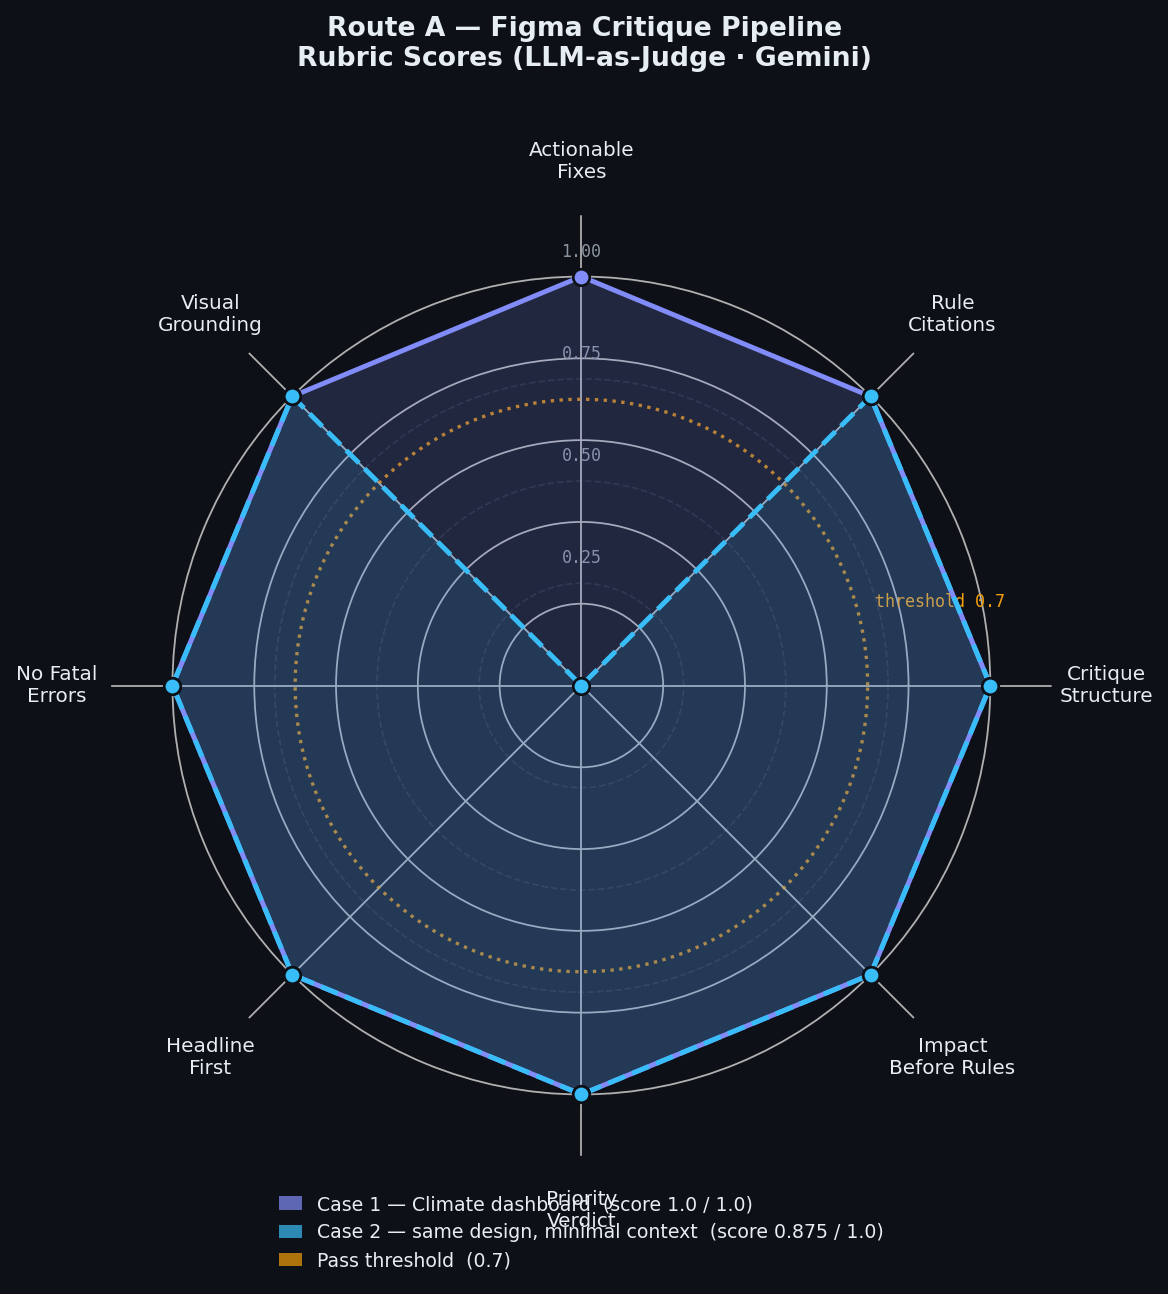
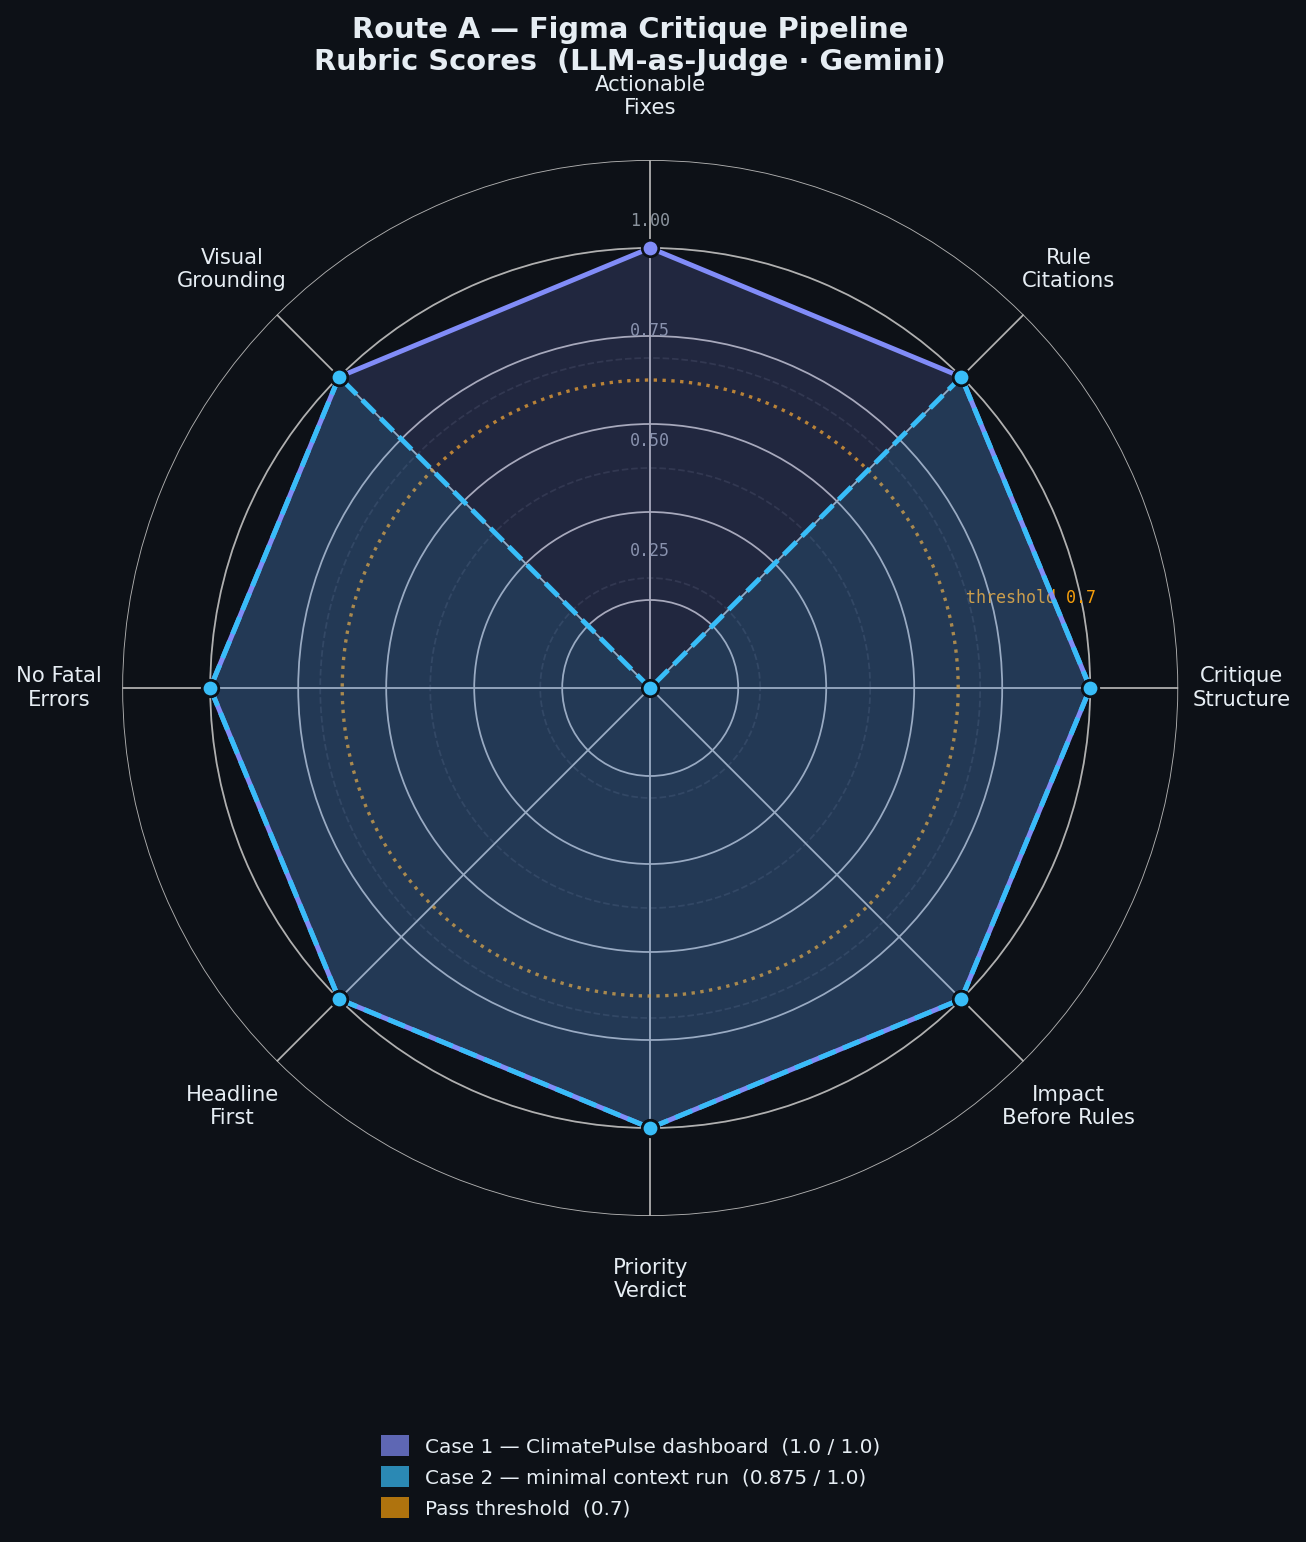
Fix eval chart and Mermaid diagram rendering issues
- Mermaid: remove emoji from node labels (parse error on GitHub)
- Radar chart: increase figure height, fix legend clipping, add padding to axis labels

diff --git a/research/gen_eval_charts.py b/research/gen_eval_charts.py
@@ -50,8 +50,10 @@ angles += angles[:1]  # close the polygon
 c1 = case1 + case1[:1]
 c2 = case2 + case2[:1]
 
-fig = plt.figure(figsize=(9, 8), facecolor=BG)
+fig = plt.figure(figsize=(10, 10), facecolor=BG)
 ax  = fig.add_subplot(111, polar=True, facecolor=BG)
+# Reserve space at bottom for legend
+fig.subplots_adjust(bottom=0.22, top=0.88)
 
 # Grid rings
 for r in [0.25, 0.5, 0.75, 1.0]:
@@ -86,33 +88,32 @@ ax.fill(angles, c2, color=CASE2_C, alpha=0.12, zorder=3)
 ax.scatter(angles[:-1], case1, s=55, color=CASE1_C, zorder=5, edgecolors=BG, linewidths=1.2)
 ax.scatter(angles[:-1], case2, s=55, color=CASE2_C, zorder=5, edgecolors=BG, linewidths=1.2)
 
-# Labels
+# Labels — extra pad so they don't crowd the chart edge
 ax.set_xticks(angles[:-1])
-ax.set_xticklabels(labels, size=9, color=TEXT, fontfamily="sans-serif")
-ax.tick_params(axis="x", pad=14)
+ax.set_xticklabels(labels, size=9.5, color=TEXT, fontfamily="sans-serif")
+ax.tick_params(axis="x", pad=18)
 ax.set_yticklabels([])
-ax.set_ylim(0, 1.15)
+ax.set_ylim(0, 1.2)
 ax.spines["polar"].set_visible(False)
 
-# Legend
+# Legend — placed in figure coords below the polar axes
 leg = [
     mpatches.Patch(facecolor=CASE1_C, alpha=0.7,
-                   label="Case 1 — Climate dashboard  (score 1.0 / 1.0)"),
+                   label="Case 1 — ClimatePulse dashboard  (1.0 / 1.0)"),
     mpatches.Patch(facecolor=CASE2_C, alpha=0.7,
-                   label="Case 2 — same design, minimal context  (score 0.875 / 1.0)"),
+                   label="Case 2 — minimal context run  (0.875 / 1.0)"),
     mpatches.Patch(facecolor=THRESH_C, alpha=0.7,
                    label="Pass threshold  (0.7)"),
 ]
-ax.legend(handles=leg, loc="lower center", bbox_to_anchor=(0.5, -0.14),
-          ncol=1, fontsize=8.5, frameon=False,
-          labelcolor=TEXT, handlelength=1.2)
+fig.legend(handles=leg, loc="lower center", bbox_to_anchor=(0.5, 0.02),
+           ncol=1, fontsize=9, frameon=False,
+           labelcolor=TEXT, handlelength=1.4, handleheight=1.2)
 
 fig.suptitle(
-    "Route A — Figma Critique Pipeline\nRubric Scores (LLM-as-Judge · Gemini)",
-    fontsize=12, color=TEXT, y=1.01, fontweight="semibold"
+    "Route A — Figma Critique Pipeline\nRubric Scores  (LLM-as-Judge · Gemini)",
+    fontsize=13, color=TEXT, fontweight="semibold", y=0.97
 )
 
-plt.tight_layout()
 fig.savefig(OUT / "eval_radar.png", dpi=160, bbox_inches="tight",
             facecolor=BG, edgecolor="none")
 plt.close(fig)

diff --git a/README.md b/README.md
@@ -114,10 +114,10 @@ flowchart LR
     J --> S1[0 or 1]
     J --> S2[0 or 1]
     J --> Sn[0 or 1]
-    S1 & S2 & Sn --> M["mean score"]
-    M --> T{≥ threshold?}
-    T -->|yes| P([✅ PASS])
-    T -->|no|  F([❌ FAIL])
+    S1 & S2 & Sn --> M[mean score]
+    M --> T{above threshold?}
+    T -->|yes| P([PASS])
+    T -->|no|  F([FAIL])
 ```
 
 ### Score overview
